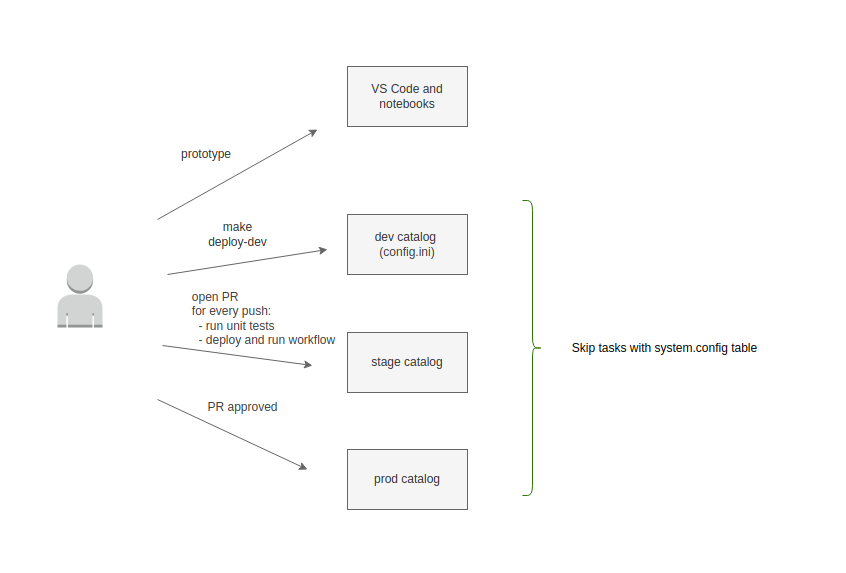
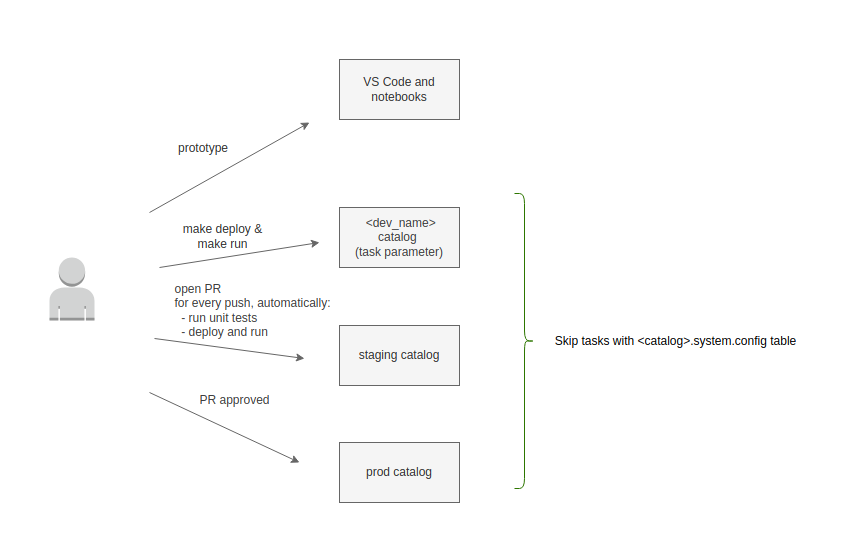
isolate dev env

diff --git a/src/template/config.py b/src/template/config.py
@@ -1,10 +1,5 @@
-import configparser
-import os
-
 import pyspark.sql.functions as F
 from pyspark.sql import SparkSession
-
-import template
 
 
 class Config:
@@ -17,19 +12,9 @@ class Config:
         self.params.update({"skip": args.skip})
         self.params.update({"debug": args.debug})
         self.params.update({"env": args.env})
-        self.params.update({"default_schema": args.default_schema})
 
         if args.env == "dev":
-            config = configparser.ConfigParser()
-            config_path = os.path.join(os.path.dirname(template.__file__), "config.ini")
-            config.read(config_path)
-
-            try:
-                value = config.get("general", "user_catalog")
-            except configparser.NoOptionError:
-                value = "dev"
-
-            self.params.update({"default_catalog": value})
+            self.params.update({"default_catalog": args.user})
         else:
             self.params.update({"default_catalog": args.env})
 
@@ -95,18 +80,6 @@ class Config:
 
     def get_test_output(self):
         return self.params
-
-    # def in_config_for_run(self, dev, task):
-    #     config = configparser.ConfigParser()
-    #     config_path = os.path.join(os.path.dirname(template.__file__), "config.ini")
-    #     config.read(config_path)
-
-    #     try:
-    #         value = config.getboolean(dev, task)
-    #     except configparser.NoOptionError:
-    #         value = False
-
-    #     return value
 
     def in_table_for_skip(self, task):
         self.spark.sql(f"USE CATALOG {self.params['env']}")

diff --git a/tests/template_test.py b/tests/template_test.py
@@ -67,9 +67,9 @@ def df_orders(spark) -> DataFrame:
 def test_arg_parser():
     parser = arg_parser()
 
-    args = parser.parse_args(["--task=extract_source1", "--env=dev", "--default_schema=template", "--skip", "--debug"])
+    args = parser.parse_args(["--task=extract_source1", "--user=andre_f_salvati", "--env=dev", "--skip", "--debug"])
 
-    assert args == Namespace(task="extract_source1", env="dev", default_schema="template", skip=True, debug=True)
+    assert args == Namespace(task="extract_source1", user="andre_f_salvati", env="dev", skip=True, debug=True)
 
 
 @pytest.mark.parametrize(
@@ -81,16 +81,14 @@ def test_arg_parser():
                 env="dev",
                 skip=False,
                 debug=True,
-                default_schema="dev",
-                default_catalog="andre_f",
+                user="andre_f_salvati",
             ),
             {
                 "task": "extract_source1",
                 "env": "dev",
                 "skip": False,
                 "debug": True,
-                "default_schema": "dev",
-                "default_catalog": "andre_f",
+                "default_catalog": "andre_f_salvati",
             },
         ),
     ],

diff --git a/src/template/main.py b/src/template/main.py
@@ -10,8 +10,8 @@ from .generate_orders_agg import GenerateOrdersAgg
 def arg_parser():
     parser = argparse.ArgumentParser()
 
+    parser.add_argument("--user")
     parser.add_argument("--env", required=True, choices=["dev", "staging", "prod"])
-    parser.add_argument("--default_schema")
     parser.add_argument(
         "--task",
         required=True,

diff --git a/README.md b/README.md
@@ -120,6 +120,6 @@ Configure [Github Actions repository secrets](https://docs.github.com/en/actions
 
 - **task** (required) - determines the current task to be executed.
 - **env** (required) - determines the AWS account where the job is running. This parameter also defines the default catalog for the task.
-- **default_schema** (optional) - determines the default schema to be used.
+- **user** (required) - determines the name of the catalog when env is "dev".
 - **skip** (optional) - determines if the current task should be skipped.
 - **debug** (optional) - determines if the current task should go through debug conditional.
